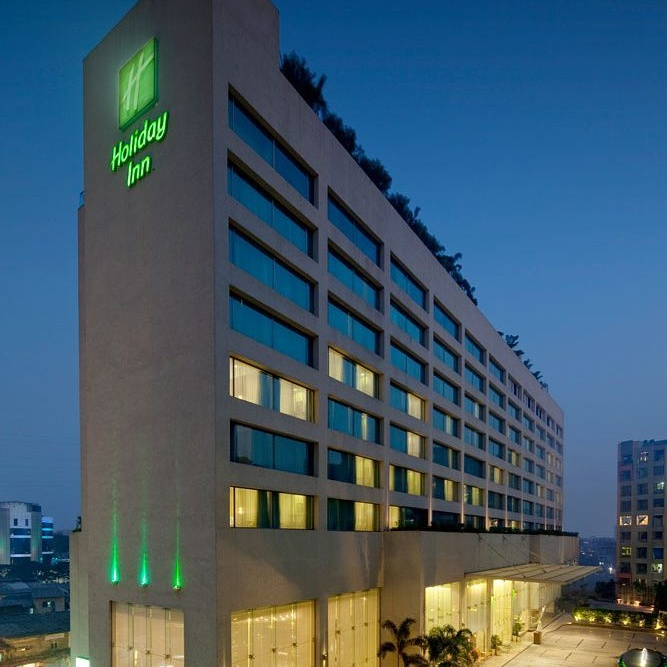
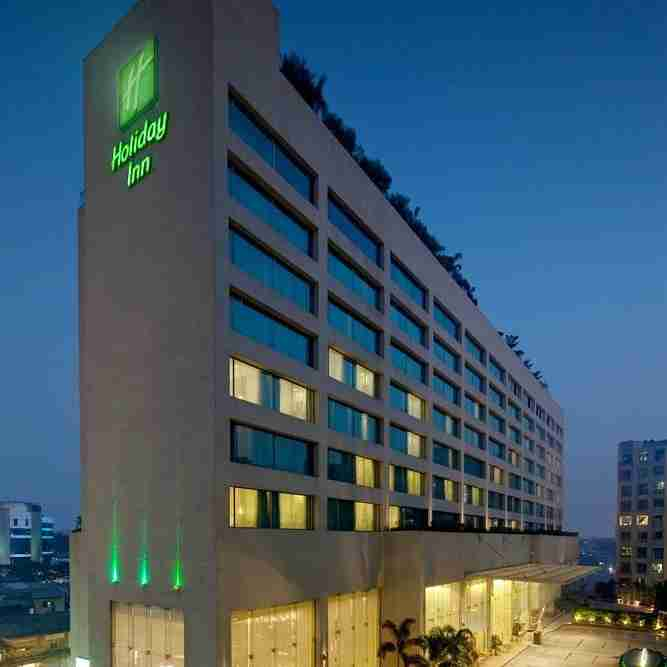
Optimized Images for faster load times
Reduced the size of images from MBs to fewer than 100KB or less than 1MB.

diff --git a/photos.html b/photos.html
@@ -36,7 +36,7 @@
 				<a class="photos"> <i class="material-icons md-18 md-light">location_city</i> MUMBAI</a>
 				<div class="dropdown-content" >
 					<a href="history.html" target="_blank"> <i class="material-icons md-18">event_note</i>  HISTORY</a>
-					<a href="mumbai.html#photos"> <i class="material-icons md-18">photo_library</i>  PHOTOS</a>
+					<a href="#photos"> <i class="material-icons md-18">photo_library</i>  PHOTOS</a>
 					<a href="tourist.html" target="_blank"> <i class="material-icons md-18">local_activity</i>  TOURIST PLACES</a>
 					<a href="shopping.html" target="_blank"> <i class="material-icons md-18">shopping_cart</i>  SHOPPING</a>
 					<a href="ht.html" target="_blank"> <i class="material-icons md-18">hotel</i>  HOTELS</a>
@@ -56,8 +56,8 @@
 		<div class="responsive">
 			<div class="gallery">
 				<span class="tooltiptext">Mumbai Locals are the Lifeline of Mumbai. It carries more than 7.5 million commuters daily</span>
-				<a target="_blank" href="assets/images/local.png">
-					<img src="assets/images/local.png" alt="Mumbai Local" width="80%" height="80%">
+				<a target="_blank" href="assets/images/local.jpg">
+					<img src="assets/images/local.jpg" alt="Mumbai Local" width="80%" height="80%">
 				</a>
 				<div class="desc">Mumbai Local<br>PC: <a href="https://www.instagram.com/saideep.dicholkar/?hl=en" target="_blank">@saideep.dicholkar</a></div>
 			</div>
@@ -66,8 +66,8 @@
 		<div class="responsive">
 			<div class="gallery">
 				<span class="tooltiptext">The Dadar railway station (western & central) as well as the tracks between Dadar and Elphinstone Road-Parel stations are visible</span>
-				<a target="_blank" href="assets/images/mum1.png">
-					<img src="assets/images/mum1.png" alt="Cityscape" width="80%" height="80%">
+				<a target="_blank" href="assets/images/mum1.jpg">
+					<img src="assets/images/mum1.jpg" alt="Cityscape" width="80%" height="80%">
 				</a>
 				<div class="desc">Cityscape<br>PC: <a href="https://www.instagram.com/towering_goals/?hl=en" target="_blank">@towering_goals</a></div>
 			</div>
@@ -76,8 +76,8 @@
 		<div class="responsive">
 			<div class="gallery">
 				<span class="tooltiptext">The Bandra Worli Sealink which connects Bandra & Worli makes it easy & saves time while travelling from South to Suburbs of Mumbai</span>
-				<a target="_blank" href="assets/images/mum10.png">
-					<img src="assets/images/mum10.png" alt="Bandra Worli Sealink" width="80%" height="80%">
+				<a target="_blank" href="assets/images/mum10.jpg">
+					<img src="assets/images/mum10.jpg" alt="Bandra Worli Sealink" width="80%" height="80%">
 				</a>
 				<div class="desc">Bandra Worli Sealink<br>PC: <a href="https://www.instagram.com/grey.panda/" target="_blank">@grey.panda</a></div>
 			</div>
@@ -86,8 +86,8 @@
 		<div class="responsive">
 			<div class="gallery">
 				<span class="tooltiptext">Usual Traffic on roads of Mumbai</span>
-				<a target="_blank" href="assets/images/mum3.png">
-					<img src="assets/images/mum3.png" alt="Traffic" width="80%" height="80%">
+				<a target="_blank" href="assets/images/mum3.jpg">
+					<img src="assets/images/mum3.jpg" alt="Traffic" width="80%" height="80%">
 				</a>
 				<div class="desc">Traffic<br>PC: <a href="https://www.instagram.com/vinish.kpavithran/" target="_blank">@vinish.kpavithran</a></div>
 			</div>
@@ -96,8 +96,8 @@
 		<div class="responsive">
 			<div class="gallery">
 				<span class="tooltiptext">Both, sea facing skyscrapers and small huts/slums may be divided on the basis of lifestyle and standard of living but there's one thing in common between them, and it is "The spirit of Mumbai "</span>
-				<a target="_blank" href="assets/images/mum3.png">
-					<img src="assets/images/mum4.png" alt="Shades of Mumbai" width="80%" height="80%">
+				<a target="_blank" href="assets/images/mum4.jpg">
+					<img src="assets/images/mum4.jpg" alt="Shades of Mumbai" width="80%" height="80%">
 				</a>
 				<div class="desc">Shades of Mumbai<br>PC: <a href="https://www.instagram.com/riteshgaikwad/" target="_blank">@riteshgaikwad</a></div>
 			</div>
@@ -106,8 +106,8 @@
 		<div class="responsive">
 			<div class="gallery">
 				<span class="tooltiptext">The beautiful Night Skyline of Mumbai shining in its glory</span>
-				<a target="_blank" href="assets/images/mum12.png">
-					<img src="assets/images/mum12.png" alt="Night Skyline of Mumbai" width="80%" height="80%">
+				<a target="_blank" href="assets/images/mum12.jpg">
+					<img src="assets/images/mum12.jpg" alt="Night Skyline of Mumbai" width="80%" height="80%">
 				</a>
 				<div class="desc">Night Skyline of Mumbai<br>PC: <a href="https://www.instagram.com/rithiktodi/?hl=en" target="_blank">@rithiktodi</a></div>
 			</div>
@@ -116,8 +116,8 @@
 		<div class="responsive">
 			<div class="gallery">
 				<span class="tooltiptext">The Indian National Flag being waved on the occasion of Republic Day of India</span>
-				<a target="_blank" href="assets/images/mum23.png">
-					<img src="assets/images/mum23.png" alt="Indian Flag" width="80%" height="80%">
+				<a target="_blank" href="assets/images/mum23.jpg">
+					<img src="assets/images/mum23.jpg" alt="Indian Flag" width="80%" height="80%">
 				</a>
 				<div class="desc">Indian Flag<br>PC: <a href="https://www.instagram.com/p/BPtnanQBGnq/?taken-by=streets.of.mumbai&hl=en" target="_blank">@streets.of.mumbai</a></div>
 			</div>
@@ -126,8 +126,8 @@
 		<div class="responsive">
 			<div class="gallery">
 				<span class="tooltiptext">The ITC Grand Central Hotel located in central Mumbai reflects the rich heritage of the colonial past and modern times.</span>
-				<a target="_blank" href="assets/images/mum7.png">
-					<img src="assets/images/mum7.png" alt="ITC Grand Central Hotel" width="80%" height="80%">
+				<a target="_blank" href="assets/images/mum7.jpg">
+					<img src="assets/images/mum7.jpg" alt="ITC Grand Central Hotel" width="80%" height="80%">
 				</a>
 				<div class="desc">ITC Grand Hotel<br>PC: <a href="https://www.instagram.com/rashmimallya/" target="_blank">@rashmimallya</a></div>
 			</div>
@@ -136,8 +136,8 @@
 		<div class="responsive">
 			<div class="gallery">
 				<span class="tooltiptext">A piece of art "I Love Mumbai" placed at Bandstand, Bandra</span>
-				<a target="_blank" href="assets/images/mum9.png">
-					<img src="assets/images/mum9.png" alt="I Love Mumbai" width="80%" height="80%">
+				<a target="_blank" href="assets/images/mum9.jpg">
+					<img src="assets/images/mum9.jpg" alt="I Love Mumbai" width="80%" height="80%">
 				</a>
 				<div class="desc">I Love Mumbai<br>PC: <a href="https://www.instagram.com/darshanpatil_5006/" target="_blank">@darshanpatil_5006</a></div>
 			</div>
@@ -146,8 +146,8 @@
 		<div class="responsive">
 			<div class="gallery">
 				<span class="tooltiptext">The newly constructed T2 of Chhatrapati Shivaji Maharaj International Airport Mumbai</span>
-				<a target="_blank" href="assets/images/mum13.png">
-					<img src="assets/images/mum13.png" alt="T2" width="80%" height="80%">
+				<a target="_blank" href="assets/images/mum13.jpg">
+					<img src="assets/images/mum13.jpg" alt="T2" width="80%" height="80%">
 				</a>
 				<div class="desc">CSIA T2<br>PC: <a href="https://www.instagram.com/eyeclickstory/" target="_blank">@eyeclickstory</a></div>
 			</div>
@@ -156,8 +156,8 @@
 		<div class="responsive">
 			<div class="gallery">
 				<span class="tooltiptext">The Ariel view of Mumbai captured while flying over Mumbai</span>
-				<a target="_blank" href="assets/images/mum16.png">
-					<img src="assets/images/mum16.png" alt="Ariel View of Mumbai" width="80%" height="80%">
+				<a target="_blank" href="assets/images/mum16.jpg">
+					<img src="assets/images/mum16.jpg" alt="Ariel View of Mumbai" width="80%" height="80%">
 				</a>
 				<div class="desc">Ariel View of Mumbai<br>PC: <a href="https://www.instagram.com/dhanashree.shah/" target="_blank">@dhanashree.shah</a></div>
 			</div>
@@ -166,8 +166,8 @@
 		<div class="responsive">
 			<div class="gallery">
 				<span class="tooltiptext">The Lifeline of Mumbai waiting for passengers to board the train at Andheri station</span>
-				<a target="_blank" href="assets/images/mum20.png">
-					<img src="assets/images/mum20.png" alt="Mumbai Locals" width="80%" height="80%">
+				<a target="_blank" href="assets/images/mum20.jpg">
+					<img src="assets/images/mum20.jpg" alt="Mumbai Locals" width="80%" height="80%">
 				</a>
 				<div class="desc">Mumbai Locals<br>PC: <a href="https://www.instagram.com/soham_kdm_05/" target="_blank">@soham_kdm_05</a></div>
 			</div>
@@ -176,8 +176,8 @@
 		<div class="responsive">
 			<div class="gallery">
 				<span class="tooltiptext">Dadar TT Flyover captured during night & areas of Dadar & Wadala are visible</span>
-				<a target="_blank" href="assets/images/mum21.png">
-					<img src="assets/images/mum21.png" alt="Dadar TT Flyover" width="80%" height="80%">
+				<a target="_blank" href="assets/images/mum21.jpg">
+					<img src="assets/images/mum21.jpg" alt="Dadar TT Flyover" width="80%" height="80%">
 				</a>
 				<div class="desc">Dadar TT Flyover<br>PC: <a href="https://www.instagram.com/ashwin.nagpal/" target="_blank">@ashwin.nagpal</a></div>
 			</div>
@@ -186,8 +186,8 @@
 		<div class="responsive">
 			<div class="gallery">
 				<span class="tooltiptext">The architectural beauty of Dr. Bhau Daji Lad Museum which has many historic arts of Mumbai</span>
-				<a target="_blank" href="assets/images/mum24.png">
-					<img src="assets/images/mum24.png" alt="Dr. Bhau Daji Lad Museum" width="80%" height="80%">
+				<a target="_blank" href="assets/images/mum24.jpg">
+					<img src="assets/images/mum24.jpg" alt="Dr. Bhau Daji Lad Museum" width="80%" height="80%">
 				</a>
 				<div class="desc">Dr. Bhau Daji Lad Museum<br>PC: <a href="https://www.instagram.com/omkarkokamthankar/" target="_blank">@omkarkokamthankar</a></div>
 			</div>
@@ -196,8 +196,8 @@
 		<div class="responsive">
 			<div class="gallery">
 				<span class="tooltiptext">Mumbai Metro travelling towards its destiny</span>
-				<a target="_blank" href="assets/images/mum25.png">
-					<img src="assets/images/mum25.png" alt="Mumbai Metro" width="80%" height="80%">
+				<a target="_blank" href="assets/images/mum25.jpg">
+					<img src="assets/images/mum25.jpg" alt="Mumbai Metro" width="80%" height="80%">
 				</a>
 				<div class="desc">Mumbai Metro<br>PC: <a href="https://www.instagram.com/towering_goals/?hl=en" target="_blank">@towering_goals</a></div>
 			</div>
@@ -206,8 +206,8 @@
 		<div class="responsive">
 			<div class="gallery">
 				<span class="tooltiptext">Juhu Beach</span>
-				<a target="_blank" href="assets/images/mum26.png">
-					<img src="assets/images/mum26.png" alt="Juhu Beach" width="80%" height="80%">
+				<a target="_blank" href="assets/images/mum26.jpg">
+					<img src="assets/images/mum26.jpg" alt="Juhu Beach" width="80%" height="80%">
 				</a>
 				<div class="desc">Juhu Beach<br>PC: <a href="https://www.instagram.com/arnoldmathias/" target="_blank">@arnoldmathias</a></div>
 			</div>

diff --git a/mumbai.html b/mumbai.html
@@ -49,6 +49,21 @@
 			</div>
 		</div>
 
+		<!-- Sliding Image Homepage
+		<div class="w3-content w3-display-container" style="max-width:1100px">
+		  <img class="mySlides w3-animate-fading" src="images/gateway_mumbai1.jpg" style="width:100%" style="opacity: 0.8; ">
+		  <img class="mySlides w3-animate-fading" src="images/mum191.jpg" style="width:100%">
+		  <img class="mySlides w3-animate-fading" src="images/skyline1.jpg" style="width:100%">
+		  <div class="w3-center w3-container w3-section w3-large w3-text-white w3-display-bottommiddle" style="width:100%">
+		    <div class="w3-left w3-hover-text-khaki" onclick="plusDivs(-1)">&#10094;</div>
+		    <div class="w3-right w3-hover-text-khaki" onclick="plusDivs(1)">&#10095;</div>
+		    <span class="w3-badge demo w3-border w3-transparent w3-hover-white" onclick="currentDiv(1)"></span>
+		    <span class="w3-badge demo w3-border w3-transparent w3-hover-white" onclick="currentDiv(2)"></span>
+		    <span class="w3-badge demo w3-border w3-transparent w3-hover-white" onclick="currentDiv(3)"></span>
+		  </div>
+		</div> -->
+
+
 		<br><br>
 
 
@@ -67,7 +82,7 @@
 
 			<div class="col">
 				<h2 style="padding: 0px 75px;">HISTORY</h2>
-				<img src="assets/images/mumbadevi.png" style="padding: 0px 0px; width:250px; height: 250px;  border-radius: 6px; box-shadow: 0px 4px 8px 0px rgba(0,0,0,0.2);" alt="Mumbadevi Temple">
+				<img src="assets/images/mumbadevi.jpg" style="padding: 0px 0px; width:250px; height: 250px;  border-radius: 6px; box-shadow: 0px 4px 8px 0px rgba(0,0,0,0.2);" alt="Mumbadevi Temple">
 			</div>
 
 			<div class="col"><br>
@@ -96,8 +111,8 @@
 		<div class="responsive">
 			<div class="gallery">
 				<span class="tooltiptext">Mumbai Locals are the Lifeline of Mumbai. It carries more than 7.5 million commuters daily</span>
-				<a target="_blank" href="assets/images/local.png">
-					<img src="assets/images/local.png" alt="Mumbai Local" width="80%" height="80%">
+				<a target="_blank" href="assets/images/local.jpg">
+					<img src="assets/images/local.jpg" alt="Mumbai Local" width="80%" height="80%">
 				</a>
 				<div class="desc">Mumbai Local<br>PC: <a href="https://www.instagram.com/saideep.dicholkar/?hl=en" target="_blank">@saideep.dicholkar</a></div>
 			</div>
@@ -106,8 +121,8 @@
 		<div class="responsive">
 			<div class="gallery">
 				<span class="tooltiptext">The Dadar railway station (western & central) as well as the tracks between Dadar and Elphinstone Road-Parel stations are visible</span>
-				<a target="_blank" href="assets/images/mum1.png">
-					<img src="assets/images/mum1.png" alt="Cityscape" width="80%" height="80%">
+				<a target="_blank" href="assets/images/mum1.jpg">
+					<img src="assets/images/mum1.jpg" alt="Cityscape" width="80%" height="80%">
 				</a>
 				<div class="desc">Cityscape<br>PC: <a href="https://www.instagram.com/towering_goals/?hl=en" target="_blank">@towering_goals</a></div>
 			</div>
@@ -116,8 +131,8 @@
 		<div class="responsive">
 			<div class="gallery">
 				<span class="tooltiptext">The Bandra Worli Sealink which connects Bandra & Worli makes it easy & saves time while travelling from South to Suburbs of Mumbai</span>
-				<a target="_blank" href="assets/images/mum10.png">
-					<img src="assets/images/mum10.png" alt="Bandra Worli Sealink" width="80%" height="80%">
+				<a target="_blank" href="assets/images/mum10.jpg">
+					<img src="assets/images/mum10.jpg" alt="Bandra Worli Sealink" width="80%" height="80%">
 				</a>
 				<div class="desc">Bandra Worli Sealink<br>PC: <a href="https://www.instagram.com/grey.panda/" target="_blank">@grey.panda</a></div></div>
 			</div>
@@ -126,8 +141,8 @@
 		<div class="responsive">
 			<div class="gallery">
 				<span class="tooltiptext">Usual Traffic on roads of Mumbai</span>
-				<a target="_blank" href="assets/images/mum3.png">
-					<img src="assets/images/mum3.png" alt="Traffic" width="80%" height="80%">
+				<a target="_blank" href="assets/images/mum3.jpg">
+					<img src="assets/images/mum3.jpg" alt="Traffic" width="80%" height="80%">
 				</a>
 				<div class="desc">Traffic<br>PC: <a href="https://www.instagram.com/dhanashree.shah/" target="_blank">@dhanashree.shah</a></div></div>
 			</div>

diff --git a/tourist.html b/tourist.html
@@ -99,7 +99,7 @@
 
 			<div class="col">
 				<h2 style="padding: 0px 10px; text-align: center;">HAJI ALI DARGAH</h2>
-				<img src="assets/images/mum29.png" alt="Haji Ali Dargah">
+				<img src="assets/images/mum29.jpg" alt="Haji Ali Dargah">
 			</div>
 
 			<div class="col"><br><br>
@@ -116,7 +116,7 @@
 
 			<div class="col" id="jehangir">
 				<h2 style="padding: 0px 10px; text-align: center;">JEHANGIR ART GALLERY</h2>
-				<img src="assets/images/mum27.png" alt="Jehangir Art Gallery">
+				<img src="assets/images/mum27.jpg" alt="Jehangir Art Gallery">
 			</div>
 		</div>
 
@@ -125,7 +125,7 @@
 
 			<div class="col">
 				<h2 style="padding: 0px 10px; text-align: center;">SANJAY GANDHI NATIONAL PARK</h2>
-				<img src="assets/images/mum28.png" alt="Sanjay Gandhi National Park">
+				<img src="assets/images/mum28.jpg" alt="Sanjay Gandhi National Park">
 			</div>
 
 			<div class="col"><br><br>
@@ -151,7 +151,7 @@
 
 			<div class="col" id="marine">
 				<h2 style="padding: 0px 10px; text-align: center;">MARINE DRIVE</h2>
-				<img src="assets/images/mum30.png" alt="Marine Drive">
+				<img src="assets/images/mum30.jpg" alt="Marine Drive">
 			</div>
 
 			<div class="col"><br><br>
@@ -168,7 +168,7 @@
 
 			<div class="col" id="elephanta">
 				<h2 style="padding: 0px 10px; text-align: center;">ELEPHANTA CAVES</h2>
-				<img src="assets/images/mum34e.png" alt="Elephanta Caves">
+				<img src="assets/images/mum34e.jpg" alt="Elephanta Caves">
 			</div>
 		</div>
 
@@ -177,7 +177,7 @@
 
 			<div class="col">
 				<h2 style="padding: 0px 10px; text-align: center;">KANHERI CAVES</h2>
-				<img src="assets/images/mum35k.png" alt="Kanheri Caves">
+				<img src="assets/images/mum35k.jpg" alt="Kanheri Caves">
 			</div>
 
 			<div class="col"><br><br>
@@ -194,7 +194,7 @@
 
 			<div class="col" id="girgaon">
 				<h2 style="padding: 0px 10px; text-align: center;">GIRGAON CHOWPATTY</h2>
-				<img src="assets/images/mum37.png" alt="Girgaon Chowpatty">
+				<img src="assets/images/mum37.jpg" alt="Girgaon Chowpatty">
 			</div>
 		</div>
 
@@ -203,7 +203,7 @@
 
 			<div class="col">
 				<h2 style="padding: 0px 10px; text-align: center;">TARAPOREWALA AQUARIUM</h2>
-				<img src="assets/images/mum33.png" alt="Taraporewala Aquarium">
+				<img src="assets/images/mum33.jpg" alt="Taraporewala Aquarium">
 			</div>
 
 			<div class="col"><br><br>
@@ -220,7 +220,7 @@
 
 			<div class="col" id="siddhivinayak">
 				<h2 style="padding: 0px 10px; text-align: center;">SIDDHIVINAYAK TEMPLE</h2>
-				<img src="assets/images/mum31.png" alt="Siddhivinayak Temple">
+				<img src="assets/images/mum31.jpg" alt="Siddhivinayak Temple">
 			</div>
 		</div>
 

diff --git a/ht.html b/ht.html
@@ -200,7 +200,7 @@
 
     <!-- Body Container for all data -->
     <div class="container"><br>
-      <h1 style="text-align: center; font-weight: bold;">HOTELS IN MUMBAI</h1><br>
+      <h1 style="text-align: center; font-weight: bold;">BEST HOTELS IN MUMBAI</h1><br>
 
       <!-- Accordion for collapsible div elements -->
       <div class="panel-group" id="accordion">

diff --git a/assets/css/mum.css b/assets/css/mum.css
@@ -382,6 +382,12 @@ div.desc {
 	}
 }
 
+@media only screen and (max-width: 800px) {
+	.responsive {
+		width: 50%;
+	}
+}
+
 @media only screen and (max-width: 500px) {
 	.responsive {
 		width: 100%;
